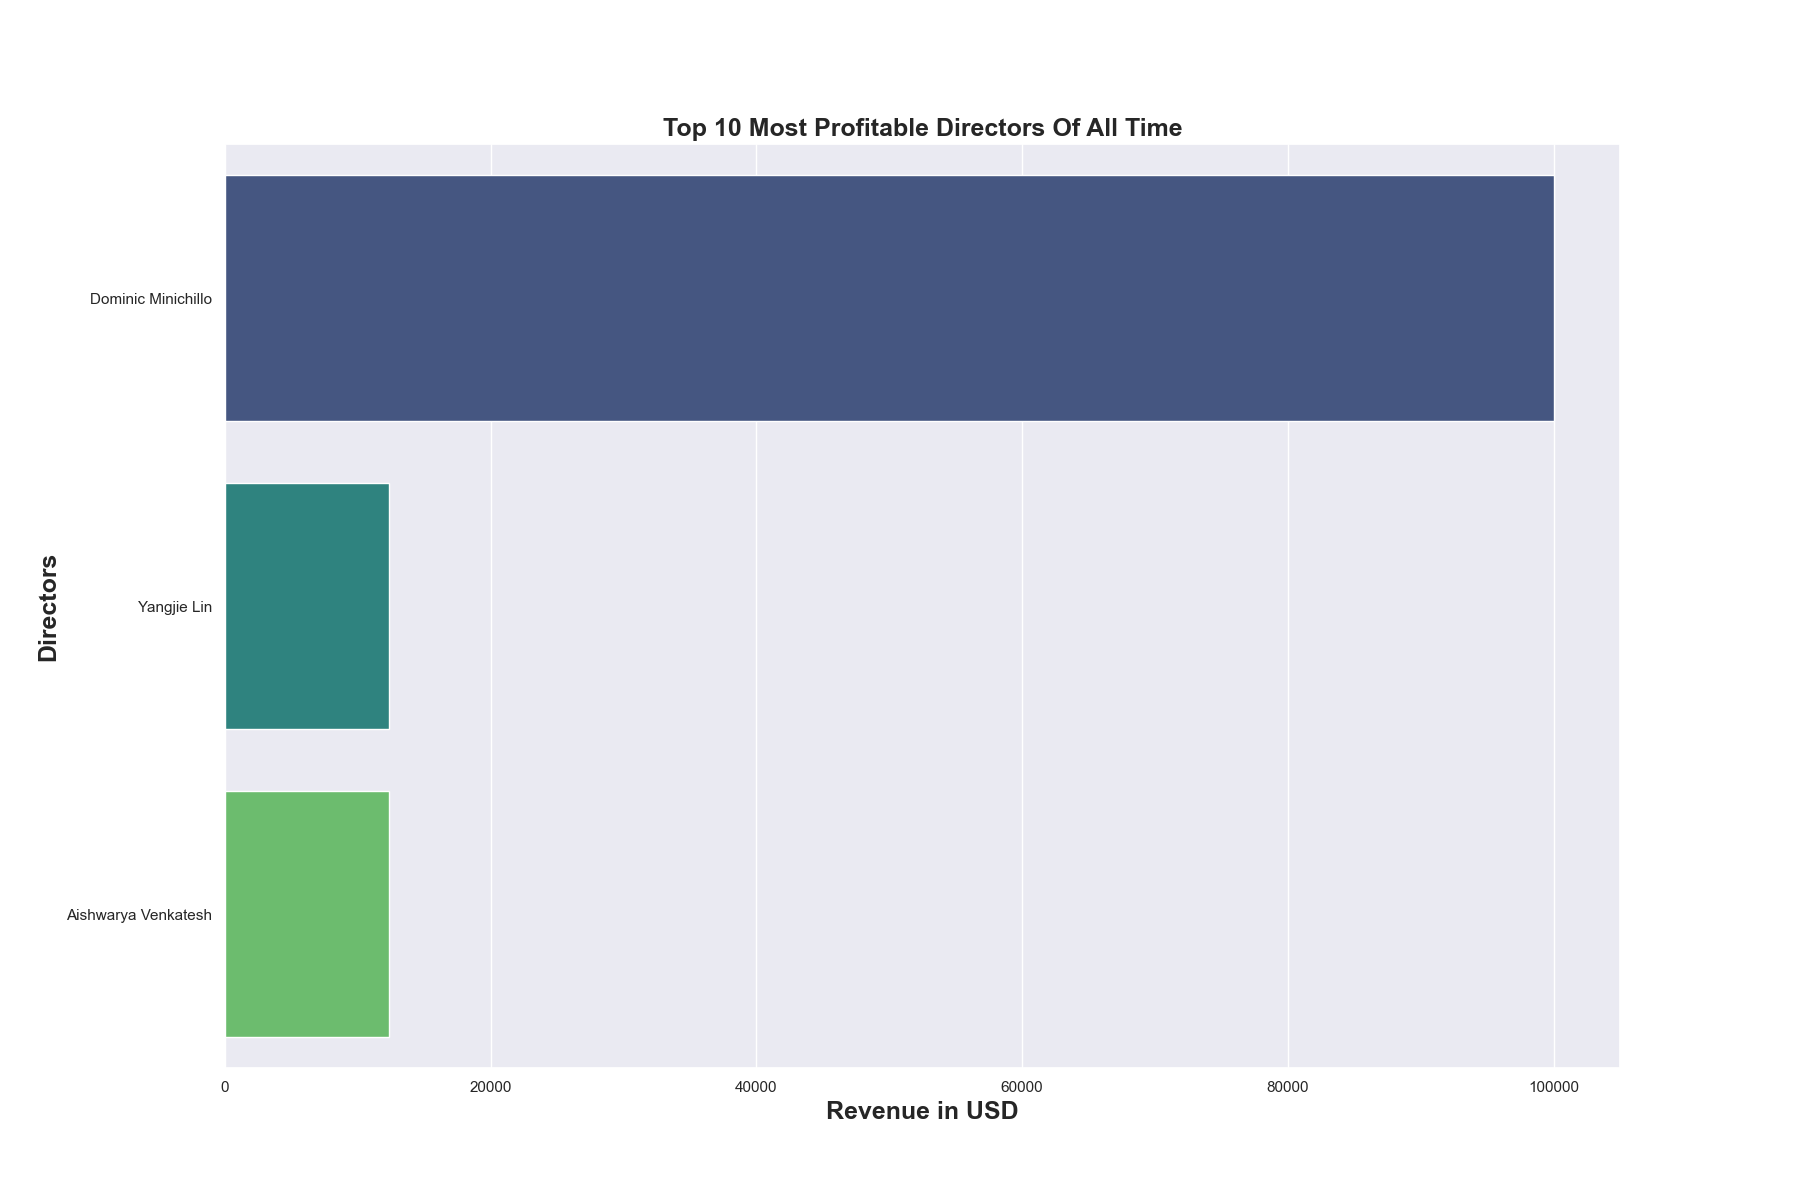
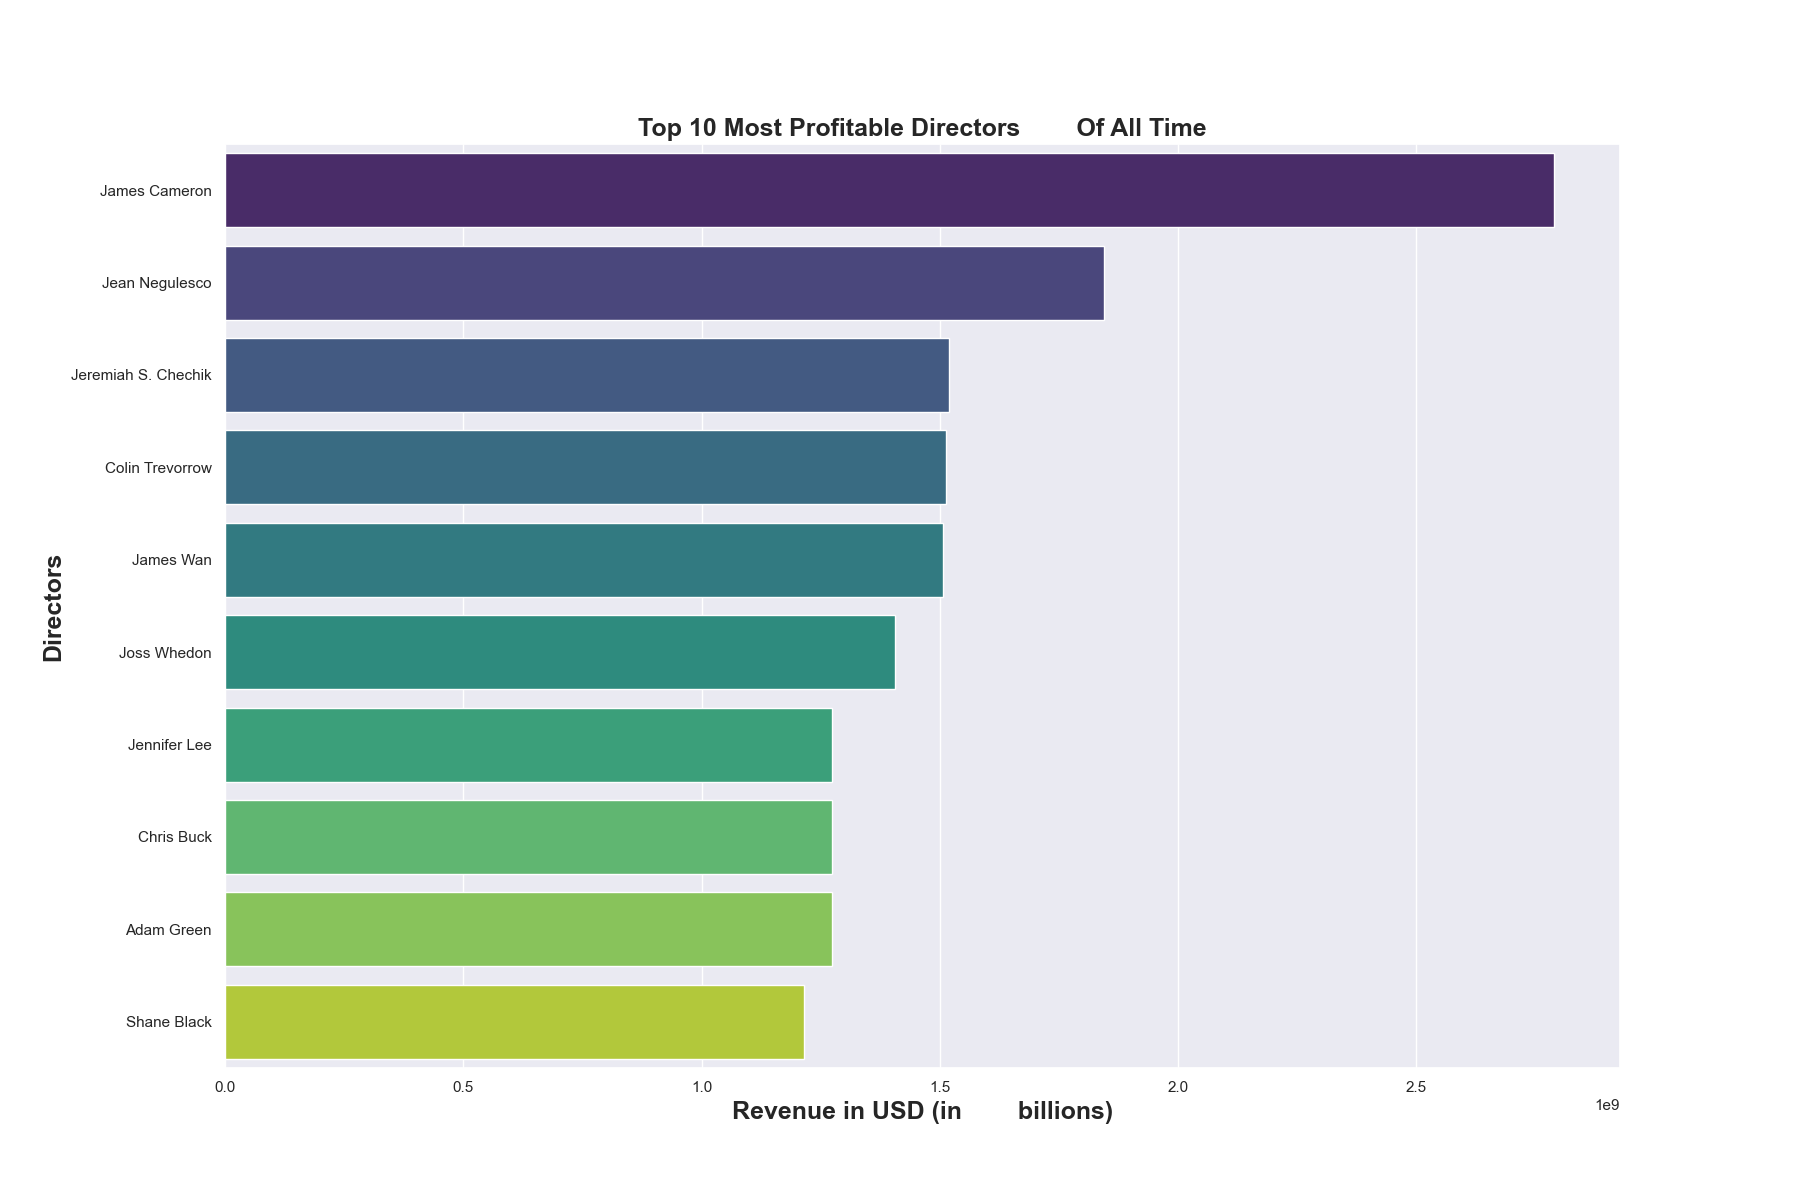
minor change

diff --git a/main.py b/main.py
@@ -72,7 +72,7 @@ def test_find_average_runtime_each_genre(data):
 
 def test_popular_genre_by_country(data):
     '''
-    test the function "popular_genre_by_country" 
+    test the function "popular_genre_by_country"
     '''
 
     result = popular_genre_by_country(data)
@@ -90,7 +90,7 @@ def test_popular_genre_by_country(data):
 
 def test_find_valuable_cast(data):
     '''
-    test the function "find_valuable_cast" 
+    test the function "find_valuable_cast"
     '''
     result = find_valuable_cast(data)
 
@@ -114,27 +114,35 @@ def critics_vs_audience(raw_data):
     Plot the scatter figure of the ciritcs and audience and returns
     a dataframe with genre, critic ratings and audience rating.
     '''
+    # selecting the columns necessary for our problem
     data = raw_data[['genres', 'tomatometer_rating', 'audience_rating']]
+
+    # getting the list of genres and storing it in the genre column
     new_data = data.copy()
     new_data['genres'] = new_data['genres'].str.split(',')
     new_data = new_data.explode('genres')
     new_data['genres'] = new_data['genres'].str.strip()
+
+    # grouping each genre and finding the mean for the same
     new_data = new_data.groupby(['genres']).mean()
     new_data = new_data.reset_index()
+
+    # creating a barplot visualization for each genre on the y axis
+    # and revenue on the x axis
     sns.set()
     scatter_plot = sns.relplot(data=new_data, x="tomatometer_rating",
                                y="audience_rating",
                                kind='scatter', hue='genres',
                                s=100, style='genres',
                                height=10)
-
     plt.title('Genres Critics Average Rating' +
               'vs. Audience Average Rating',
               weight='bold')
     scatter_plot.set(xlabel='Critics Rating', ylabel='Audience Rating')
-
     plt.plot(range(0, 100), range(0, 100), 'black', alpha=0.2)
     plt.savefig('critics_vs_audience.png', bbox_inches='tight')
+
+    # returns dataframe of genres and their mean critics and audience rating
     return new_data
 
 
@@ -247,37 +255,56 @@ def popular_genre_by_country(raw_data):
 
 def find_valuable_cast(joint_df):
     """
-
+    Given the joint dataset of rotten tomatoes and TMDB dataset,
+    this function finds the top 10 most profitable directors of
+    all time and creates a barplot visualization for the same
+    while returning the dataframe of directors that make the most
+    revenue
     """
+    # selecting necessary columns for our problem
     data_directors = joint_df[['directors', 'revenue']]
+
+    # making a list of directors and stores it as the 'directors' column
     data_directors = data_directors.copy()
     data_directors['directors'] = data_directors['directors'].str.split(',')
     data_directors = data_directors.explode('directors')
     data_directors['directors'] = data_directors['directors'].str.strip()
+
+    # arranging revenue values in descending order and selects top 10
     data_directors_revenue = (data_directors
                               .sort_values('revenue', ascending=False)
                               .drop_duplicates('directors', keep='first')
                               .head(10))
+
+    # creating a barplot of top 10 directors with x axis revenue and
+    # y axis directors
     sns.set()
     plt.figure(figsize=(18, 12))
     barplot_directors = sns.barplot(x=data_directors_revenue['revenue'],
                                     y=data_directors_revenue['directors'],
                                     palette='viridis')
-    barplot_directors.set_title(
-        'Top 10 Most Profitable Directors Of All Time', fontsize=18, weight='bold')
-    barplot_directors.set_xlabel('Revenue in USD', fontsize=18, weight='bold')
+    barplot_directors.set_title('Top 10 Most Profitable Directors\
+        Of All Time', fontsize=18, weight='bold')
+    barplot_directors.set_xlabel('Revenue in USD (in\
+        billions)', fontsize=18, weight='bold')
     barplot_directors.set_ylabel('Directors', fontsize=18, weight='bold')
     plt.savefig('valuable_directors.png')
+
+    # returns dataframe with top 10 directors and their revenue
     return data_directors_revenue
 
 
 def join_tables(tomatoes_df, tmdb_df):
     """
-
+    Takes TMDB and rotten tomatoes dataframes and joins
+    the two dataframes and returns the joint dataframe
     """
+    # selecting necessary columns for our problems
     tomatoes_df = tomatoes_df[['movie_title', 'directors']]
     tmdb_df = tmdb_df[['budget', 'revenue',
                        'title', 'vote_average', 'vote_count']]
+
+    # creates and returns a joint dataset
     return tomatoes_df.merge(tmdb_df, left_on='movie_title',
                              right_on='title', how='left').dropna()
 

diff --git a/recommendation_system.py b/recommendation_system.py
@@ -17,8 +17,8 @@ class Recommendation_System:
         future recommendation. Including similarity matrix
         and research result from "movie_analysis" module
         '''
-        movies = data[['movie_title', 'genres', 
-                       'directors', 'actors', 
+        movies = data[['movie_title', 'genres',
+                       'directors', 'actors',
                        'production_company']]
 
         movies = movies.fillna("")
@@ -69,7 +69,7 @@ class Recommendation_System:
         if len(match_tuple) == 0:
             return
         else:
-            print(f'Found possible matches in our movies Library:' +
+            print('Found possible matches in our movies Library:' +
                   f'{[x[0] for x in match_tuple]}\n')
             return (match_tuple[0][0], match_tuple[0][1])
 
@@ -111,8 +111,7 @@ class Recommendation_System:
                     score += 1
 
             movies_list.append((movie_name, score))
-        movies_list.sort(key=lambda x : x[1], reverse=True)
+        movies_list.sort(key=lambda x: x[1], reverse=True)
 
         for movie, score in movies_list:
-            print(f'Movie: {movie}, score {score}')
-
+            print(f'Movie: {movie}, Score: {score}')
